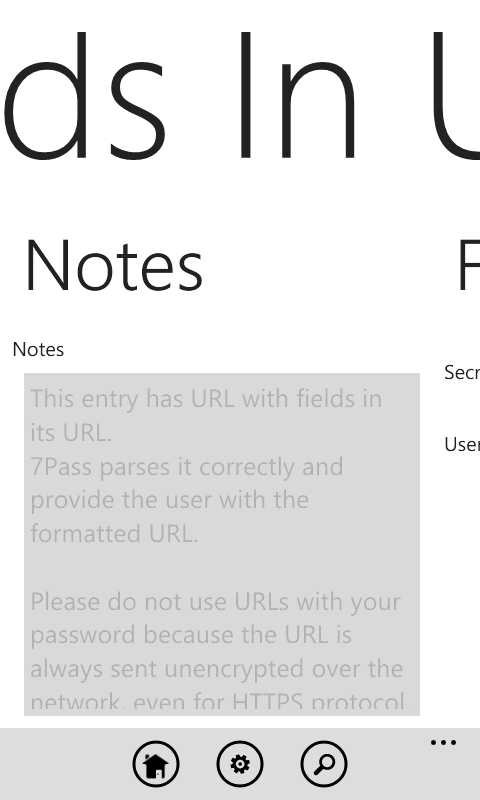
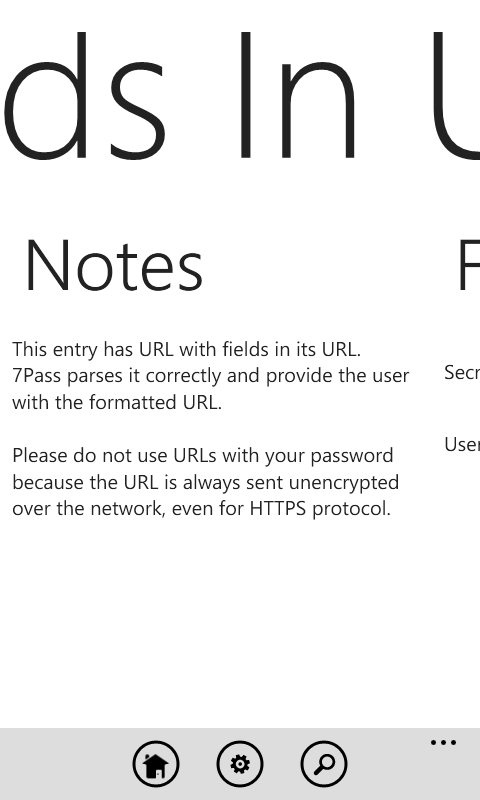
Made notes a scrollable textblock.

diff --git a/KeePass/EntryPage.xaml b/KeePass/EntryPage.xaml
@@ -32,17 +32,9 @@
         </controls:PanoramaItem>
 
         <controls:PanoramaItem Header="Notes">
-            <Grid>
-                <Grid.RowDefinitions>
-                    <RowDefinition Height="Auto" />
-                    <RowDefinition Height="*" />
-                </Grid.RowDefinitions>
-                
-                <TextBlock Grid.Row="0">Notes</TextBlock>
-                
-                <TextBox Grid.Row ="1" Grid.Column="1" TextWrapping="Wrap"
-                    Text="{Binding Notes}" IsReadOnly="True" />
-            </Grid>
+            <ScrollViewer>
+                <TextBlock TextWrapping="Wrap" Text="{Binding Notes}" />
+            </ScrollViewer>
         </controls:PanoramaItem>
 
         <controls:PanoramaItem Header="Fields">
